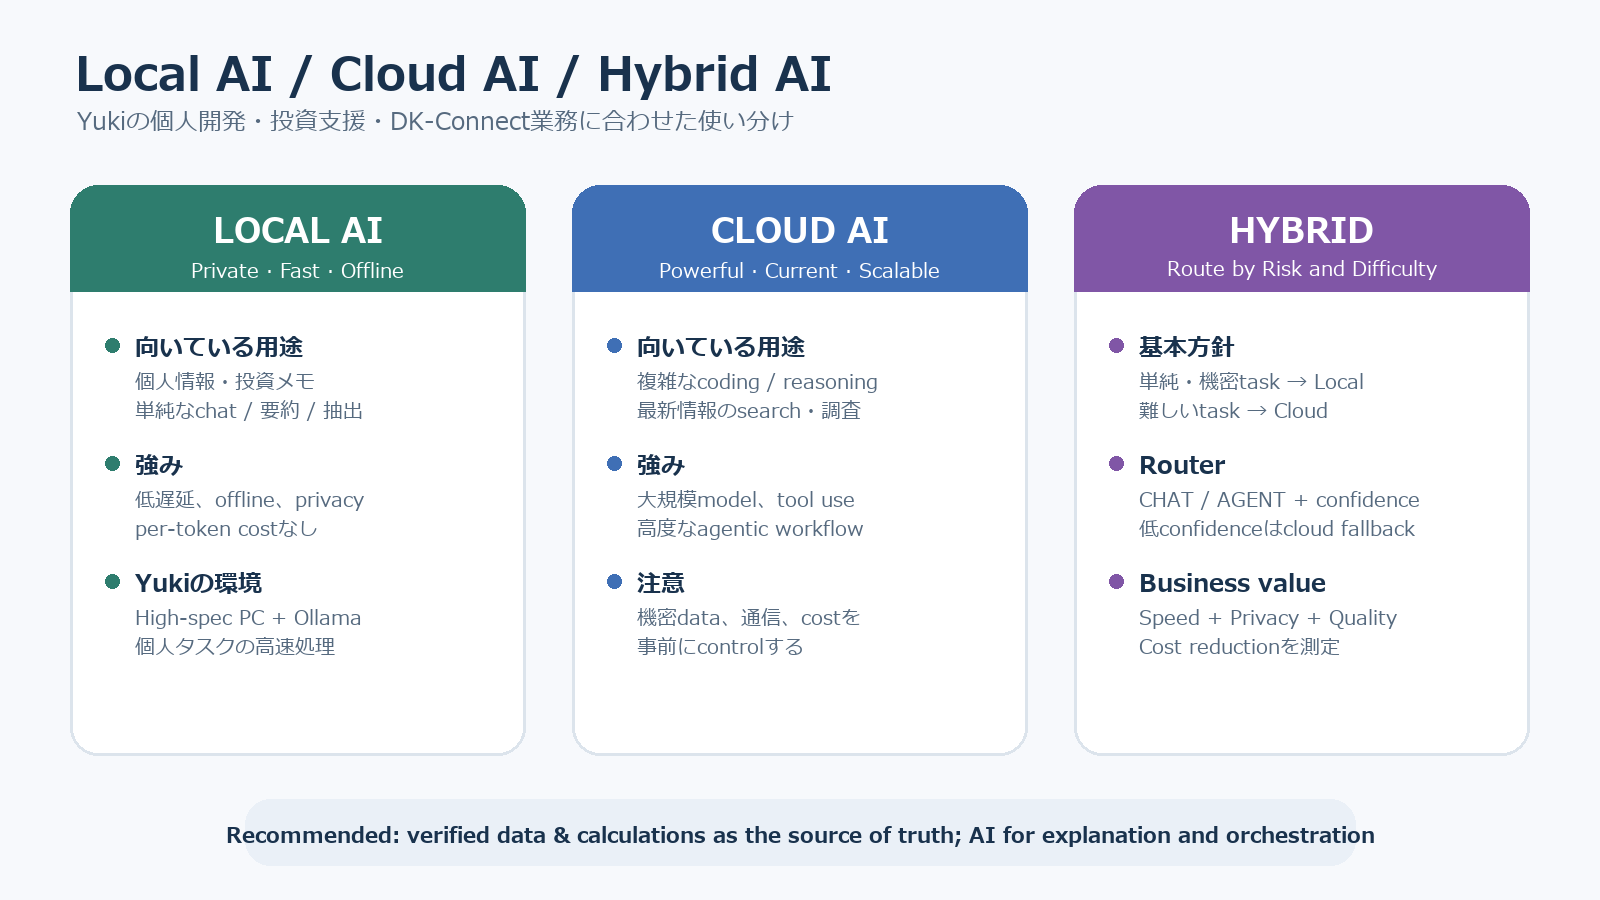
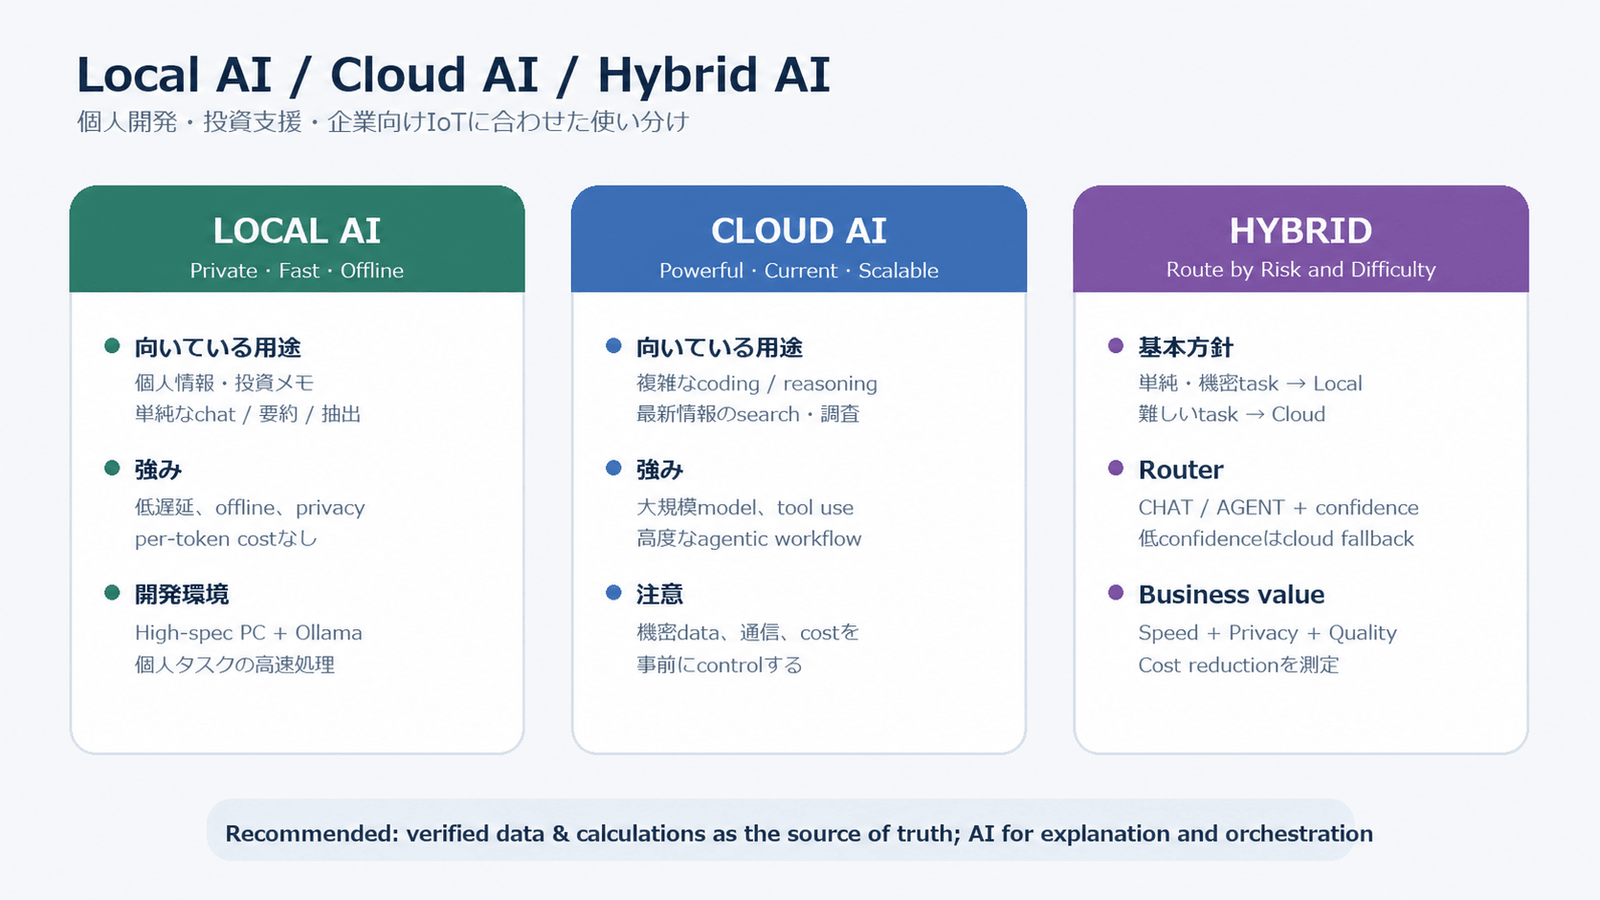
Anonymize tracked learning artifacts

diff --git a/2026-08-19-local-cloud-ai-enterprise-ai-session-report.html b/2026-08-19-local-cloud-ai-enterprise-ai-session-report.html
@@ -1,13 +1,13 @@
 <h1 id="2026年8月19日水ローカルaiクラウドaiとai駆動開発">｜2026年8月19日（水）ローカルAI・クラウドAIとAI駆動開発</h1>
 <blockquote>
 <p><strong>Session 6 / Recorded session window:</strong> 09:02–10:00 JST<br />
-<strong>主な話題:</strong> Local AI / Cloud AI / Hybrid AI、Foundry Local、AI投資支援アプリ、Daikin・DK-Connect、AI駆動開発<br />
+<strong>主な話題:</strong> Local AI / Cloud AI / Hybrid AI、Foundry Local、AI投資支援アプリ、企業向けIoT、AI駆動開発<br />
 <strong>評価上の注意:</strong> 本レポートは文字起こしを根拠とする。Pronunciation、WPM、1秒超のポーズは直接計測していないため評価しない。共通60秒課題は未実施のため、新しい定量スコアは作成しない。</p>
 </blockquote>
 <h2 id="今日の要点--today-at-a-glance">今日の要点 / Today at a Glance</h2>
 <p>Yukiは、ローカルAIとクラウドAIの使い分けについて、個人開発と業務の両面から詳しく議論した。自宅にはLLM実行用に構築した高性能PCがあり、個人データや単純な処理にはローカルAI、複雑なコーディング・高度なreasoning・最新情報の検索にはクラウドAIが適しているという結論に至った。</p>
 <p>個人開発では、企業分析、銘柄スクリーニング、ポートフォリオ管理、投資判断支援を扱う投資支援アプリを開発している。Ollamaは通常のチャットには十分だが、LangGraphを使ったagentic workflowでは、入力を通常チャットとエージェントタスクに振り分ける最初のrouting判断が不安定になる場合があると説明した。</p>
-<p>業務面では、DaikinのIT開発ソリューション部門で、DK-Connectに関連するIoTシステム開発、結合テスト、システムテストに関わっていることを共有した。AIの対象をテスト工程だけに限定せず、要件・設計・実装・レビュー・テスト・リリース・保守を含む開発ライフサイクル全体へ広げたいという構想を説明した。組織へ提案する際の最優先の価値は、反復作業の削減と生産性向上による<strong>コスト削減</strong>である。</p>
+<p>業務面では、勤務先のソフトウェア開発部門で、企業向けIoTプラットフォームの開発・テストに関わっていることを共有した。AIの対象をテスト工程だけに限定せず、要件・設計・実装・レビュー・テスト・リリース・保守を含む開発ライフサイクル全体へ広げたいという構想を説明した。組織へ提案する際の最優先の価値は、反復作業の削減と生産性向上による<strong>コスト削減</strong>である。</p>
 <p>また、音声会話の実音声から発音を評価し、セッションレポートへ反映できる機能をOpenAI Supportへ要望として送信した。AI-assisted supportからは、現在のVoice Modeには音素精度、stress、intonation、linkingなどを実音声から直接採点する文書化された機能はない、という説明があった。要望は送信済みだが、製品チームによる検討や実装は約束されていない。</p>
 <h2 id="話題別メモ--topic-notes">話題別メモ / Topic Notes</h2>
 <h3 id="1-local-aicloud-aihybrid-ai">1. Local AI・Cloud AI・Hybrid AI</h3>
@@ -50,8 +50,8 @@
 <li>confidenceが低い場合は、clarificationまたはcloud modelへrouting判断だけをfallbackする。</li>
 <li>数値、価格、財務比率は検証済みデータとdeterministic codeを正本にし、LLMは説明・比較・シナリオ整理を担当する。</li>
 </ol>
-<h3 id="4-daikindk-connectai駆動開発">4. Daikin・DK-Connect・AI駆動開発</h3>
-<p>YukiはDaikinのIT開発ソリューション部門に所属し、DK-Connectに関連するIoTシステムの結合テスト・システムテストに関わっている。AI initiativeはテスト自動化だけでなく、開発工程全体を対象とする。</p>
+<h3 id="4-企業向けiotai駆動開発">4. 企業向けIoT・AI駆動開発</h3>
+<p>Yukiは勤務先のソフトウェア開発部門で、企業向けIoTプラットフォームの開発・テストに関わっている。AI initiativeはテスト自動化だけでなく、開発工程全体を対象とする。</p>
 <p>想定できる支援領域:</p>
 <ul>
 <li>Requirements: 要件の分類、曖昧さ検出、traceability支援</li>
@@ -97,8 +97,8 @@
 </tr>
 <tr>
 <td>業務の説明</td>
-<td><strong>I’m involved in IoT system development for DK-Connect.</strong></td>
-<td><strong>I’m involved in the development and system-level testing of IoT services related to DK-Connect.</strong></td>
+<td><strong>I’m involved in developing an enterprise IoT platform.</strong></td>
+<td><strong>I’m involved in the development and system-level testing of an enterprise IoT platform.</strong></td>
 <td><code>be involved in</code> は担当・関与を自然に表す。</td>
 </tr>
 <tr>
@@ -274,9 +274,9 @@
 <ol type="1">
 <li>AI initiativeを30秒で説明するprofessional pitchを作る。</li>
 <li>その後、同じ内容を自然な会話表現へ言い換える。</li>
-<li>60秒課題: <strong>How should Daikin use AI across the development lifecycle while controlling cost and risk?</strong></li>
+<li>60秒課題: <strong>How should an enterprise use AI across the development lifecycle while controlling cost and risk?</strong></li>
 <li>投資支援アプリのrouterについて、正分類例と誤分類例を各3件用意する。</li>
-<li>NIST AI RMFから、investment-support appとDK-Connectの両方に使えるrisk-control項目を選ぶ。</li>
+<li>NIST AI RMFから、investment-support appと企業向けIoTプラットフォームの両方に使えるrisk-control項目を選ぶ。</li>
 </ol>
 <h2 id="sources--references">Sources / References</h2>
 <ul>
@@ -285,4 +285,4 @@
 </ul>
 <h2 id="visual--figure">Visual / Figure</h2>
 <p><img src="./assets/2026-08-19-hybrid-ai-comparison.png" alt="Local AI、Cloud AI、Hybrid AIの使い分け" /></p>
-<p><em>Figure: Yukiの用途に合わせたLocal AI / Cloud AI / Hybrid AIの使い分け。会話内容と上記公式記事を基に作成。</em></p>
+<p><em>Figure: 個人開発と企業向けIoTの用途に合わせたLocal AI / Cloud AI / Hybrid AIの使い分け。会話内容と上記公式記事を基に作成。</em></p>

diff --git a/assets/README.md b/assets/README.md
@@ -1,6 +1,6 @@
 # Assets
 
-- `2026-08-19-hybrid-ai-comparison.png` is the approved comparison visual for the Daily Note.
+- `2026-08-19-hybrid-ai-comparison.png` is the approved, anonymized comparison visual for the Daily Note. It uses generic labels for the learner and enterprise IoT context.
 - `2026-08-19-english-growth-session5-vs-session6.png` is a **draft only**. Session 5 and Session 6 were evaluated under different conditions, so it must not be inserted into the Google Doc or used to claim a score change without a comparable assessment.
 
 When a corrected chart is created on another PC, replace this draft with an asset that clearly labels the comparison conditions.
